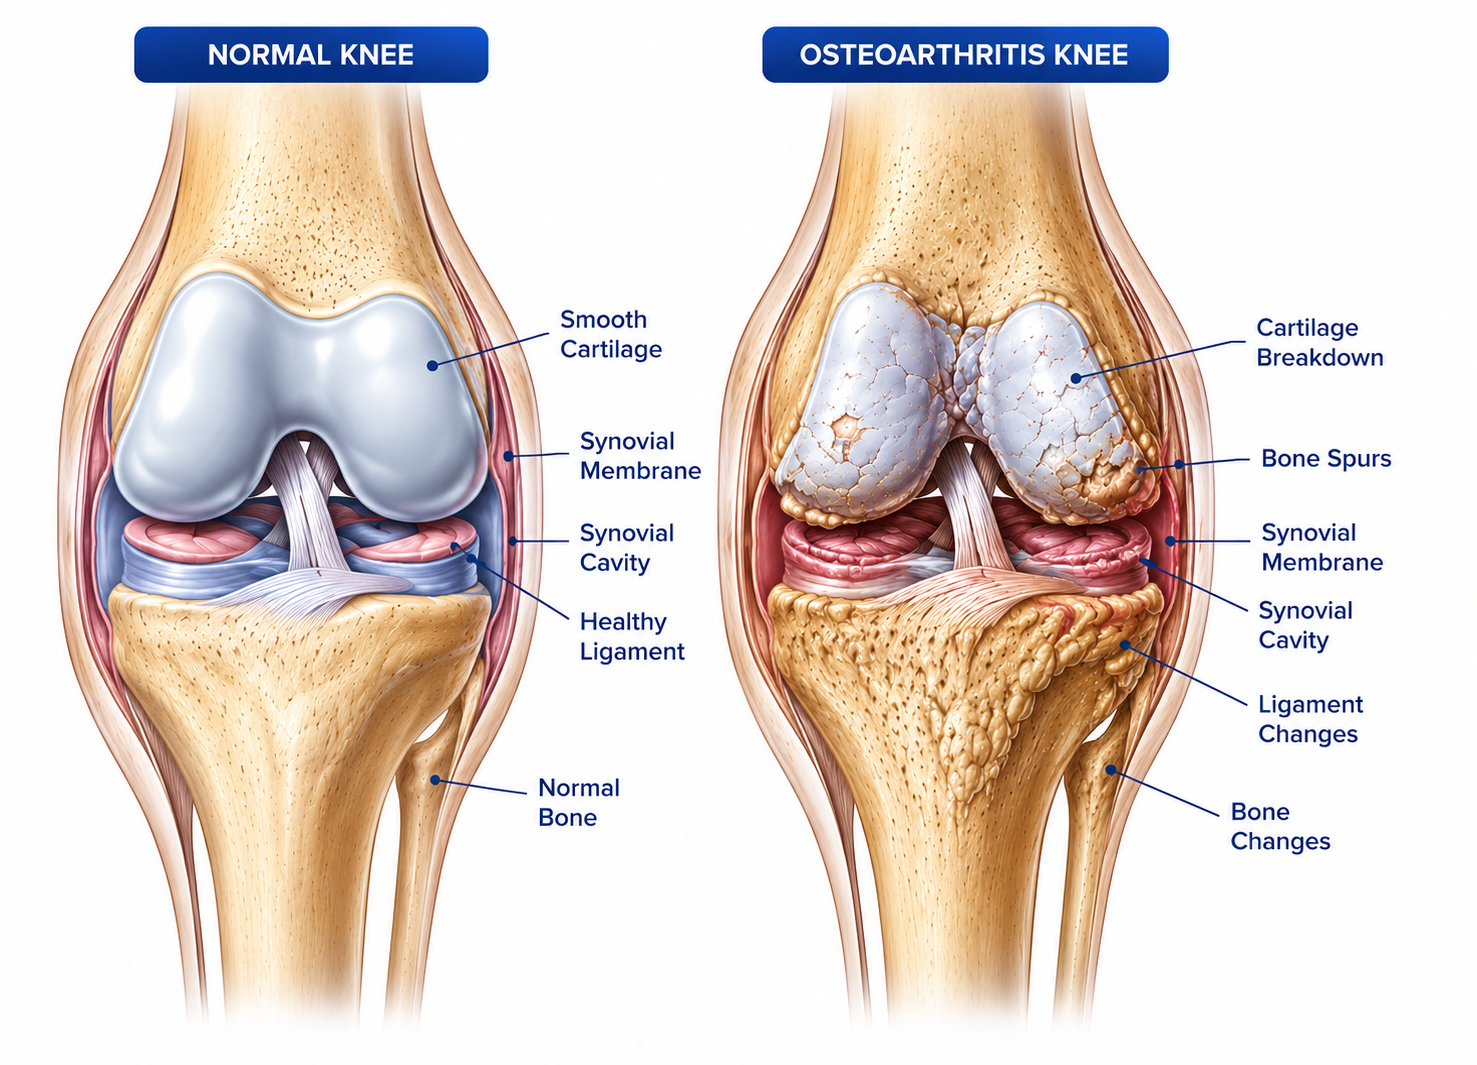
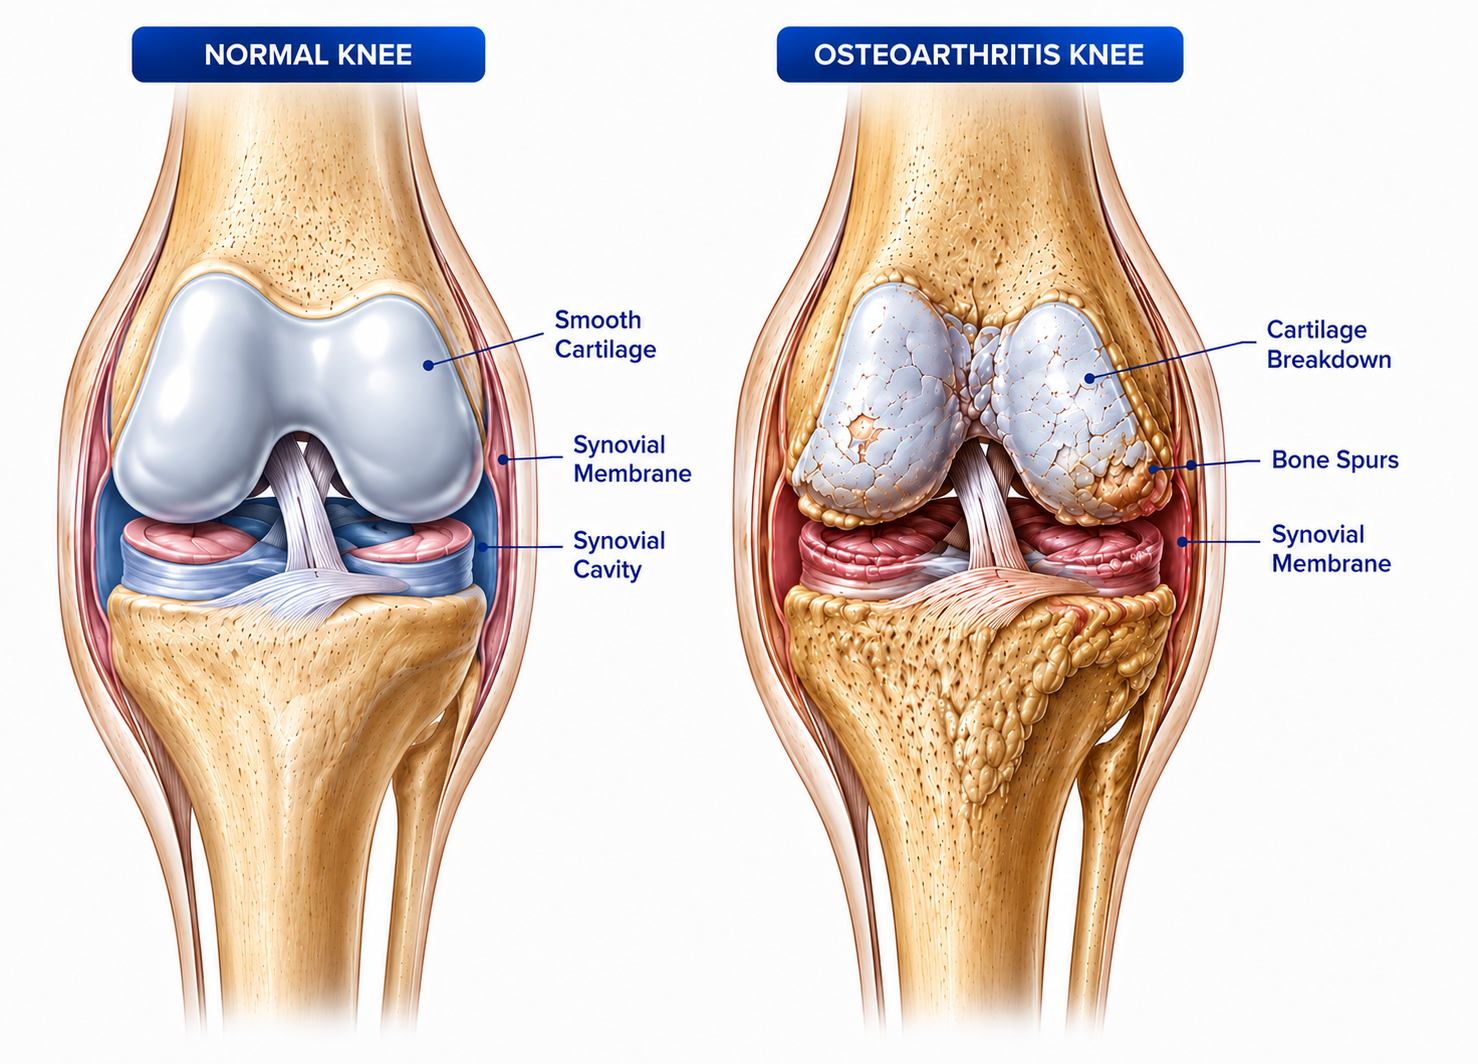
Merge remote main and keep updated code

diff --git a/src/pages/Patient.tsx b/src/pages/Patient.tsx
@@ -7,7 +7,6 @@ import Button from "@/components/ui/Button";
 import patientLandingBg from "@/assets/patient landing.png";
 import patientLandingMobileBg from "@/assets/patient 2.png";
 import oaComparisonImage from "@/assets/OA.png";
-import mobileOAImage from "@/assets/mobile OA.png";
 import symptomsImage from "@/assets/symptoms.png";
 import gradeStage1Image from "@/assets/stage 1.png";
 import gradeStage2Image from "@/assets/stage 2.png";
@@ -276,7 +275,7 @@ export default function Patient() {
                   lead to pain, stiffness, swelling, and reduced movement.
                 </p>
 
-                <div className="hidden md:grid md:grid-cols-2 mt-8 gap-4">
+                <div className="grid grid-cols-1 sm:grid-cols-2 mt-8 gap-4">
                   <div className="rounded-[24px] bg-white/85 p-6 ring-1 ring-sky-200/60 shadow-soft-xl transition-all duration-300 hover:-translate-y-1 hover:shadow-2xl hover:ring-sky-300 cursor-default">
                     <div className="text-sm font-semibold text-slate-900">Normal Knee</div>
                     <div className="mt-2 text-sm leading-relaxed text-slate-600">
@@ -284,8 +283,6 @@ export default function Patient() {
                         <li>Smooth Cartilage</li>
                         <li>Synovial Membrane</li>
                         <li>Synovial Cavity</li>
-                        <li>Healthy Ligament</li>
-                        <li>Normal Bone</li>
                       </ul>
                     </div>
                   </div>
@@ -297,11 +294,15 @@ export default function Patient() {
                         <li>Cartilage Breakdown</li>
                         <li>Bone Spurs</li>
                         <li>Synovial Membrane</li>
-                        <li>Synovial Cavity</li>
-                        <li>Ligament Changes</li>
-                        <li>Bone Changes</li>
                       </ul>
                     </div>
+                  </div>
+                </div>
+
+                <div className="mt-4 rounded-[24px] bg-white/85 p-5 sm:p-6 ring-1 ring-sky-200/60 shadow-soft-xl transition-all duration-300 hover:-translate-y-1 hover:shadow-2xl hover:ring-sky-300 cursor-default">
+                  <div className="text-sm leading-relaxed text-slate-600">
+                    <span className="font-bold text-slate-900">Synovial inflammation (synovitis):</span>{" "}
+                    The synovium becomes inflamed and thickened, producing excess synovial fluid. This can cause joint swelling, pain, stiffness, and reduced knee movement.
                   </div>
                 </div>
 
@@ -309,7 +310,7 @@ export default function Patient() {
 
               <div
                 className={cn(
-                  "transition-all duration-700 ease-out delay-100",
+                  "hidden md:block transition-all duration-700 ease-out delay-100",
                   oaInView ? "opacity-100 translate-y-0" : "opacity-0 translate-y-6",
                 )}
               >
@@ -319,48 +320,10 @@ export default function Patient() {
                     alt="Healthy knee vs osteoarthritis comparison"
                     width={1200}
                     height={800}
-                    className="hidden md:block h-full w-full object-contain"
+                    className="h-full w-full object-contain"
                     decoding="async"
                     loading="eager"
                   />
-
-                  {/* Mobile Image with Text Overlays */}
-                  <div className="md:hidden relative w-full h-auto">
-                    <img
-                      src={mobileOAImage}
-                      alt="Healthy knee vs osteoarthritis comparison mobile"
-                      width={1200}
-                      height={800}
-                      className="w-full h-auto object-contain"
-                      decoding="async"
-                      loading="eager"
-                    />
-
-                    {/* Normal Knee Labels */}
-                    <div className="absolute top-[40%] left-[43%] -translate-y-1/2 text-[9px] sm:text-[11px] font-bold text-slate-800 bg-white px-2 py-1 rounded shadow-sm border border-slate-100 whitespace-nowrap">
-                      Smooth Cartilage
-                    </div>
-                    <div className="absolute top-[51%] left-[43%] -translate-y-1/2 text-[9px] sm:text-[11px] font-bold text-slate-800 bg-white px-2 py-1 rounded shadow-sm border border-slate-100 whitespace-nowrap">
-                      Healthy Ligament
-                    </div>
-                    <div className="absolute top-[64%] left-[43%] -translate-y-1/2 text-[9px] sm:text-[11px] font-bold text-slate-800 bg-white px-2 py-1 rounded shadow-sm border border-slate-100 whitespace-nowrap">
-                      Normal Bone
-                    </div>
-
-                    {/* OA Knee Labels */}
-                    <div className="absolute top-[33%] right-[5%] -translate-y-1/2 text-[9px] sm:text-[11px] font-bold text-slate-800 bg-white px-2 py-1 rounded shadow-sm border border-slate-100 whitespace-nowrap">
-                      Cartilage Breakdown
-                    </div>
-                    <div className="absolute top-[46%] right-[5%] -translate-y-1/2 text-[9px] sm:text-[11px] font-bold text-slate-800 bg-white px-2 py-1 rounded shadow-sm border border-slate-100 whitespace-nowrap">
-                      Bone Spurs
-                    </div>
-                    <div className="absolute top-[54%] right-[5%] -translate-y-1/2 text-[9px] sm:text-[11px] font-bold text-slate-800 bg-white px-2 py-1 rounded shadow-sm border border-slate-100 whitespace-nowrap">
-                      Inflamed Synovium
-                    </div>
-                    <div className="absolute top-[68%] right-[5%] -translate-y-1/2 text-[9px] sm:text-[11px] font-bold text-slate-800 bg-white px-2 py-1 rounded shadow-sm border border-slate-100 whitespace-nowrap">
-                      Bone Changes
-                    </div>
-                  </div>
                 </div>
               </div>
             </div>
@@ -706,7 +669,7 @@ export default function Patient() {
                     {[
                       { title: "Unique Cells", desc: "Specialized adult stem cells capable of supporting tissue repair and regeneration." },
                       { title: "Differentiation Potential", desc: "Can develop into bone, cartilage, muscle, and connective tissue." },
-                      { title: "Repair & Preservation", desc: "Supports the body's natural repair process and helps to preserve the damaged tissue" },
+                      { title: "Repair & Preservation", desc: "Supports the body's natural repair process and helps to preserve the connective tissue." },
                       { title: "Natural Healing", desc: "Promote a healthier tissue environment that supports regeneration." },
                     ].map((cell, i) => (
                       <div
@@ -1164,7 +1127,7 @@ export default function Patient() {
                     {
                       step: "STEP 04",
                       title: "Intra-articular Injection",
-                      desc: "2 mL of BMMSCs together with 1 mL of PlasmaLyte is injected into the affected knee. Administer 2 mL of Hyaluronic Acid, which acts as the biological scaffold.",
+                      desc: "2 mL of BMMSCs together with 1 mL of PlasmaLyte is injected into the affected Knee followed by Administration of 2mL of Hyaluronic Acid, which acts as the biological scaffold.",
                       image: injectionImage,
                     }
                   ].map((item, i) => (

diff --git a/backend/index.js b/backend/index.js
@@ -213,8 +213,6 @@ const renderEmailLayout = ({ title, preheader, heading, introHtml, contentHtml, 
   `.trim();
 };
 
-};
-
 const emailMaxAttempts = Number(process.env.EMAIL_MAX_ATTEMPTS) || 3;
 const emailRetryBaseMs = Number(process.env.EMAIL_RETRY_BASE_MS) || 1500;
 const emailRetryMaxMs = Number(process.env.EMAIL_RETRY_MAX_MS) || 60000;
@@ -273,100 +271,6 @@ app.use(express.json());
 await initDB();
 
 // API Routes
-
-    if (!isValidEmail(cleanEmail)) return res.status(400).json({ message: 'Valid email is required.' });
-    if (!isValidOptionalPhone(cleanPhone)) return res.status(400).json({ message: 'Phone number must be 10 digits.' });
-    if (cleanAge) {
-      const ageNum = Number(cleanAge);
-      if (!Number.isFinite(ageNum) || ageNum < 1 || ageNum > 120) {
-        return res.status(400).json({ message: 'Age must be between 1 and 120.' });
-      }
-    }
-    if (!cleanFrequency) return res.status(400).json({ message: 'Pain frequency is required.' });
-    if (cleanPain) {
-      const painNum = Number(cleanPain);
-      if (!Number.isFinite(painNum) || painNum < 0 || painNum > 10) {
-        return res.status(400).json({ message: 'Pain severity must be between 0 and 10.' });
-      }
-    }
-
-    const query = `
-      INSERT INTO assessments (full_name, email, phone, age, pain_frequency, pain_severity, stiffness, swelling, cracking, previous_treatments, other_symptoms)
-      VALUES (?, ?, ?, ?, ?, ?, ?, ?, ?, ?, ?)
-    `;
-    
-    const [insertResult] = await pool.query(query, [
-      cleanName,
-      cleanEmail,
-      cleanPhone || null,
-      cleanAge || null,
-      cleanFrequency || null,
-      cleanPain || null,
-      cleanStiffness || null,
-      cleanSwelling || null,
-      cleanCracking || null,
-      cleanPrev || null,
-      cleanOther || null
-    ]);
-
-    const insertedId = insertResult?.insertId;
-    const [tsRows] = insertedId
-      ? await pool.query(`SELECT DATE_FORMAT(created_at, '%d-%m-%Y %l:%i%p') AS created_at FROM assessments WHERE id = ?`, [insertedId])
-      : [null];
-    const submittedAt = tsRows?.[0]?.created_at ? asTrimmedString(tsRows[0].created_at) : formatExportDateTime(new Date());
-
-    const computedScore = computeAssessmentScore({
-      pain_frequency: cleanFrequency,
-      pain_severity: cleanPain,
-      stiffness: cleanStiffness,
-      swelling: cleanSwelling,
-      cracking: cleanCracking,
-    });
-    const emailDispatches = [];
-
-    if (cleanEmail && isValidEmail(cleanEmail)) {
-      const candidateContent = renderKeyValueTable([
-        { label: 'Submission Time', value: submittedAt },
-        { label: 'Name', value: cleanName },
-        { label: 'Email', value: cleanEmail },
-        { label: 'Contact Number', value: cleanPhone || '' },
-        { label: 'Pain Frequency', value: cleanFrequency || '' },
-        { label: 'Pain Severity', value: cleanPain || '' },
-        { label: 'Stiffness', value: cleanStiffness || '' },
-        { label: 'Swelling', value: cleanSwelling || '' },
-        { label: 'Cracking', value: cleanCracking || '' },
-        { label: 'Score', value: computedScore ? `${computedScore.total}/${computedScore.max} (${computedScore.label})` : '' },
-      ]);
-
-      const candidateHtml = renderEmailLayout({
-        title: 'Assessment Received',
-        preheader: 'We have received your assessment',
-        heading: 'Assessment received successfully',
-        introHtml: `<div style="font-size:14px;line-height:22px;color:#334155;margin:0 0 16px;">Thank you for your submission. Our team will review your assessment and contact you if shortlisted.</div>`,
-        contentHtml: candidateContent,
-        footerNoteHtml: `<div style="margin-top:10px;">If you did not submit this assessment, please ignore this email.</div>`,
-      });
-
-      emailDispatches.push(
-        runEmailJob({
-          id: `assessment-candidate-${insertedId || Date.now()}`,
-          to: cleanEmail,
-          subject: `${emailCompanyName ? `${emailCompanyName} - ` : ''}Assessment Received`,
-          html: candidateHtml,
-          tag: 'assessment_candidate',
-          attempt: 1,
-        })
-      );
-    }
-
-    await Promise.allSettled(emailDispatches);
-
-    res.status(201).json({ message: 'Assessment submitted successfully!' });
-  } catch (error) {
-    console.error('Error submitting assessment:', error);
-    res.status(500).json({ message: 'Failed to submit assessment' });
-  }
-});
 
 // Submit contact
 app.post('/api/contact', async (req, res) => {
